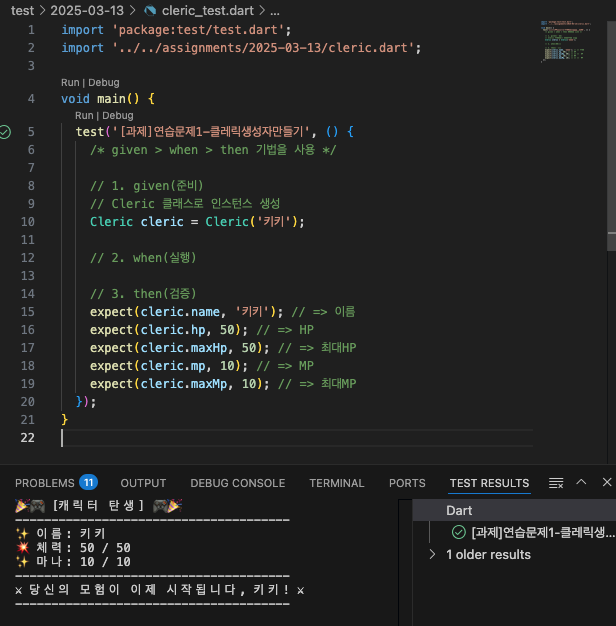
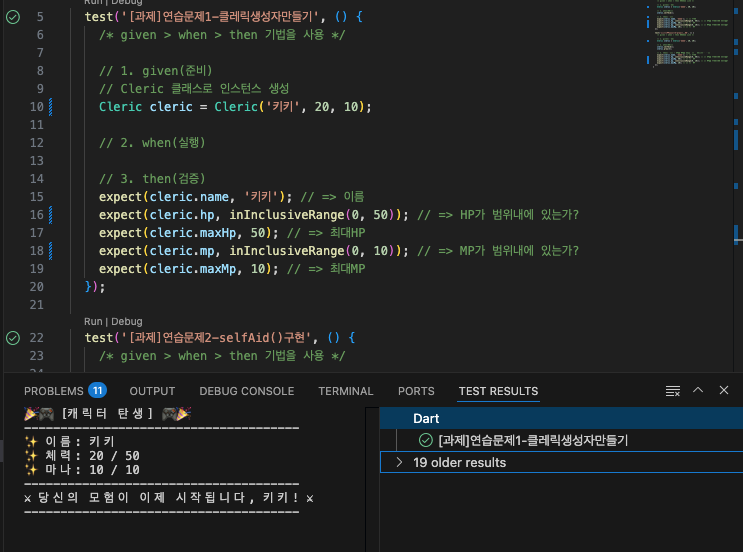
FIX: 2025-03-13 과제수정

diff --git a/test/2025-03-13/cleric_test.dart b/test/2025-03-13/cleric_test.dart
@@ -7,15 +7,15 @@ void main() {
 
     // 1. given(준비)
     // Cleric 클래스로 인스턴스 생성
-    Cleric cleric = Cleric('키키');
+    Cleric cleric = Cleric('키키', 20, 10);
 
     // 2. when(실행)
 
     // 3. then(검증)
     expect(cleric.name, '키키'); // => 이름
-    expect(cleric.hp, 50); // => HP
+    expect(cleric.hp, inInclusiveRange(0, 50)); // => HP가 범위내에 있는가?
     expect(cleric.maxHp, 50); // => 최대HP
-    expect(cleric.mp, 10); // => MP
+    expect(cleric.mp, inInclusiveRange(0, 10)); // => MP가 범위내에 있는가?
     expect(cleric.maxMp, 10); // => 최대MP
   });
 
@@ -23,24 +23,24 @@ void main() {
     /* given > when > then 기법을 사용 */
 
     // 1. given(준비)
-    Cleric cleric = Cleric('키키');
+    Cleric cleric = Cleric('키키', 20, 10);
 
     // 2. when(실행)
     cleric.selfAid();
 
-    // 3. then(검증) - HP와 MP가 예상대로 변화했는지 검증
+    // 3. then(검증)
     expect(cleric.name, '키키'); // => 이름
-    expect(cleric.hp, 50); // => HP는 최대 HP로 회복되어야 하므로 50
-    expect(cleric.maxHp, 50); // => 최대HP는 50
-    expect(cleric.mp, 5); // => MP는 5 감소해야 하므로 5
-    expect(cleric.maxMp, 10); // => 최대MP는 10
+    expect(cleric.hp, inInclusiveRange(0, 50)); // => HP가 범위내에 있는가?
+    expect(cleric.maxHp, 50); // => 최대HP
+    expect(cleric.mp, inInclusiveRange(0, 10)); // => MP가 범위내에 있는가?
+    expect(cleric.maxMp, 10); // => 최대MP
   });
 
   test('[과제]연습문제3-pray()구현', () {
     /* given > when > then 기법을 사용 */
 
     // 1. given(준비)
-    Cleric cleric = Cleric('키키');
+    Cleric cleric = Cleric('키키', 20, 10);
 
     // 2. when(실행)
     cleric.selfAid();
@@ -48,9 +48,9 @@ void main() {
 
     // 3. then(검증) - HP와 MP가 예상대로 변화했는지 검증
     expect(cleric.name, '키키'); // => 이름
-    expect(cleric.hp, 50); // => HP는 최대 HP로 회복되어야 하므로 50
-    expect(cleric.maxHp, 50); // => 최대HP는 50
-    expect(cleric.mp, inInclusiveRange(0, 10)); // => MP는 0 이상 10 이하여야 하므로 범위 검증
-    expect(cleric.maxMp, 10); // => 최대MP는 10
+    expect(cleric.hp, inInclusiveRange(0, 50)); // => HP가 범위내에 있는가?
+    expect(cleric.maxHp, 50); // => 최대HP
+    expect(cleric.mp, inInclusiveRange(0, 10)); // => MP가 범위내에 있는가?
+    expect(cleric.maxMp, 10); // => 최대MP
   });
 }

diff --git a/assignments/2025-03-13/cleric.dart b/assignments/2025-03-13/cleric.dart
@@ -9,7 +9,7 @@ class Cleric {
   final int maxMp = 10;
 
   // 생성자
-  Cleric(this.name) {
+  Cleric(this.name, this.hp, this.mp) {
     print('🎉🎮 [캐릭터 탄생] 🎮🎉');
     print('--------------------------------------');
     print('✨ 이름: $name');
